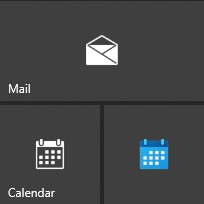
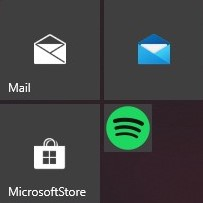
Fixes and imgs
- Fixed 150x150 Tile img
- Updated readme imgs

diff --git a/let-me-use-my-accent-colors/Pages/MainPage.xaml.cs b/let-me-use-my-accent-colors/Pages/MainPage.xaml.cs
@@ -1,7 +1,5 @@
 using System;
-using System.Collections.Generic;
 using System.Diagnostics;
-using System.IO;
 using System.Linq;
 using System.Runtime.InteropServices.WindowsRuntime;
 using Windows.ApplicationModel;
@@ -43,7 +41,7 @@ namespace let_me_use_my_accent_colors
             bool useLegacyIcons = (bool)UseLegacyIcons.IsChecked;
 
             SecondaryTile tile = new SecondaryTile(tileId, displayName, arguments,
-                CStart.cApps.FindByName(displayName).GetSquare150x150(useLegacyIcons), tileSize);
+                CStart.cApps.FindByName(uriName).GetSquare150x150(useLegacyIcons), tileSize);
 
             tile.VisualElements.Wide310x150Logo = CStart.cApps.FindByName(uriName).GetWide310x150(useLegacyIcons);
             tile.VisualElements.Square310x310Logo = CStart.cApps.FindByName(uriName).GetSquare310x310(useLegacyIcons);

diff --git a/let-me-use-my-accent-colors/Pages/CustomUriPage/AddNewCustomUriPage.xaml.cs b/let-me-use-my-accent-colors/Pages/CustomUriPage/AddNewCustomUriPage.xaml.cs
@@ -1,23 +1,10 @@
 using System;
 using System.Collections.Generic;
 using System.Diagnostics;
-using System.IO;
-using System.Linq;
-using System.Runtime.InteropServices.WindowsRuntime;
 using System.Threading.Tasks;
-using Windows.ApplicationModel.Core;
-using Windows.Foundation;
-using Windows.Foundation.Collections;
 using Windows.Storage;
-using Windows.System;
-using Windows.UI.Core;
 using Windows.UI.Xaml;
 using Windows.UI.Xaml.Controls;
-using Windows.UI.Xaml.Controls.Primitives;
-using Windows.UI.Xaml.Data;
-using Windows.UI.Xaml.Input;
-using Windows.UI.Xaml.Media;
-using Windows.UI.Xaml.Navigation;
 
 namespace let_me_use_my_accent_colors
 {

diff --git a/let-me-use-my-accent-colors/Pages/CustomUriPage/EditCustomUriPage.xaml.cs b/let-me-use-my-accent-colors/Pages/CustomUriPage/EditCustomUriPage.xaml.cs
@@ -1,20 +1,10 @@
 using System;
 using System.Collections.Generic;
 using System.Diagnostics;
-using System.IO;
-using System.Linq;
-using System.Runtime.InteropServices.WindowsRuntime;
 using System.Threading.Tasks;
-using Windows.Foundation;
-using Windows.Foundation.Collections;
 using Windows.Storage;
-using Windows.UI.Core;
 using Windows.UI.Xaml;
 using Windows.UI.Xaml.Controls;
-using Windows.UI.Xaml.Controls.Primitives;
-using Windows.UI.Xaml.Data;
-using Windows.UI.Xaml.Input;
-using Windows.UI.Xaml.Media;
 using Windows.UI.Xaml.Navigation;
 
 namespace let_me_use_my_accent_colors

diff --git a/let-me-use-my-accent-colors/Pages/CustomUriPage/CustomUriListViewPage.xaml.cs b/let-me-use-my-accent-colors/Pages/CustomUriPage/CustomUriListViewPage.xaml.cs
@@ -1,20 +1,11 @@
 using System;
-using System.Collections.Generic;
 using System.Diagnostics;
-using System.IO;
 using System.Linq;
 using System.Runtime.InteropServices.WindowsRuntime;
-using Windows.Foundation;
-using Windows.Foundation.Collections;
 using Windows.Storage;
 using Windows.UI.Core;
 using Windows.UI.Xaml;
 using Windows.UI.Xaml.Controls;
-using Windows.UI.Xaml.Controls.Primitives;
-using Windows.UI.Xaml.Data;
-using Windows.UI.Xaml.Input;
-using Windows.UI.Xaml.Media;
-using Windows.UI.Xaml.Navigation;
 
 namespace let_me_use_my_accent_colors
 {

diff --git a/let-me-use-my-accent-colors/Scripts/CStart.cs b/let-me-use-my-accent-colors/Scripts/CStart.cs
@@ -5,7 +5,6 @@ using System.Diagnostics;
 using System.Linq;
 using Windows.Storage;
 using Windows.System;
-using Windows.UI.StartScreen;
 
 namespace let_me_use_my_accent_colors
 {
